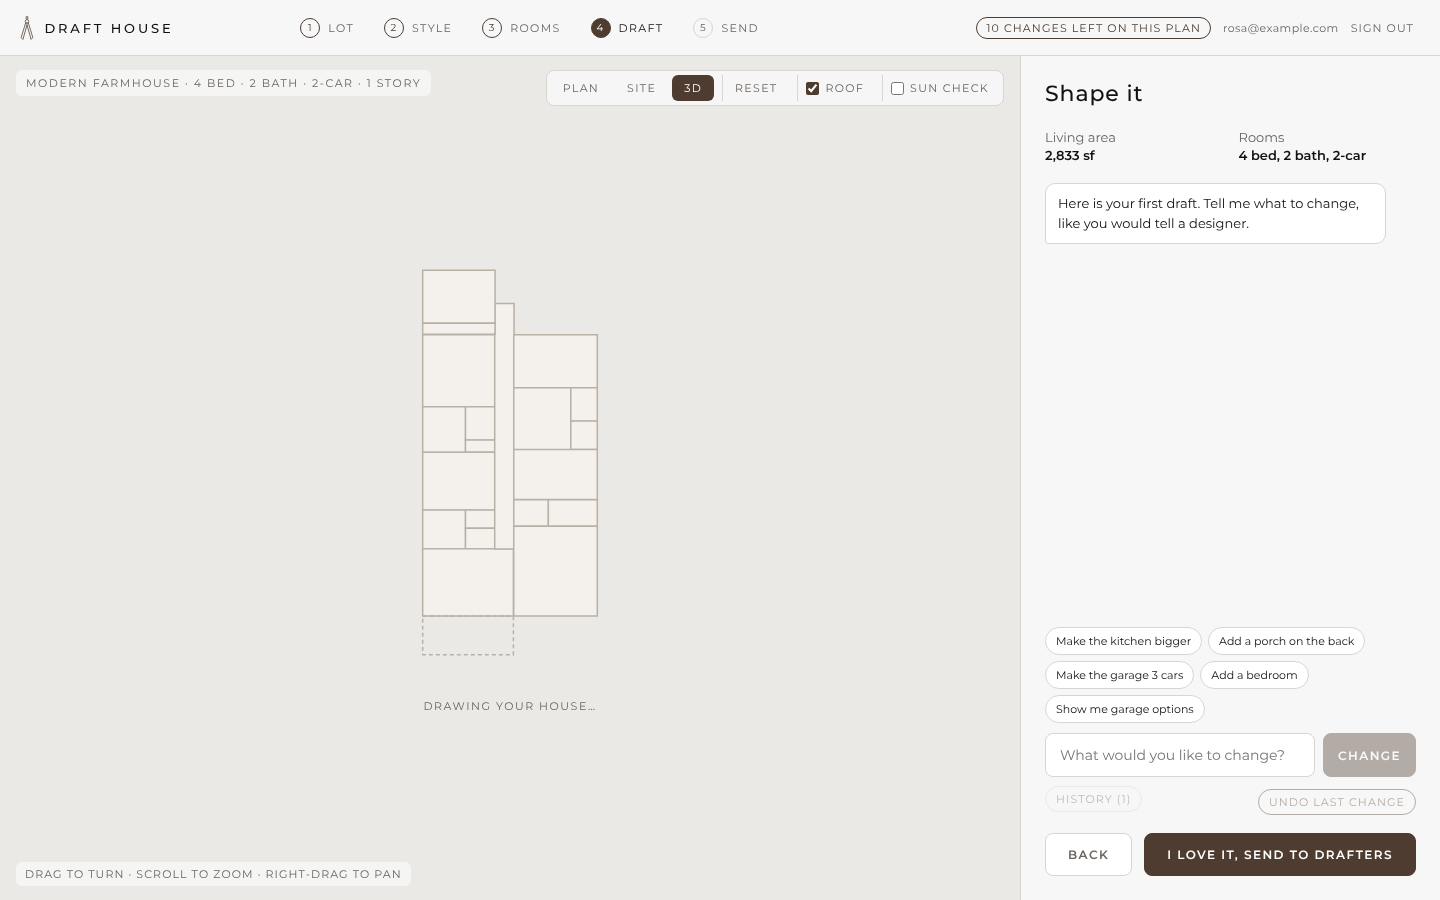
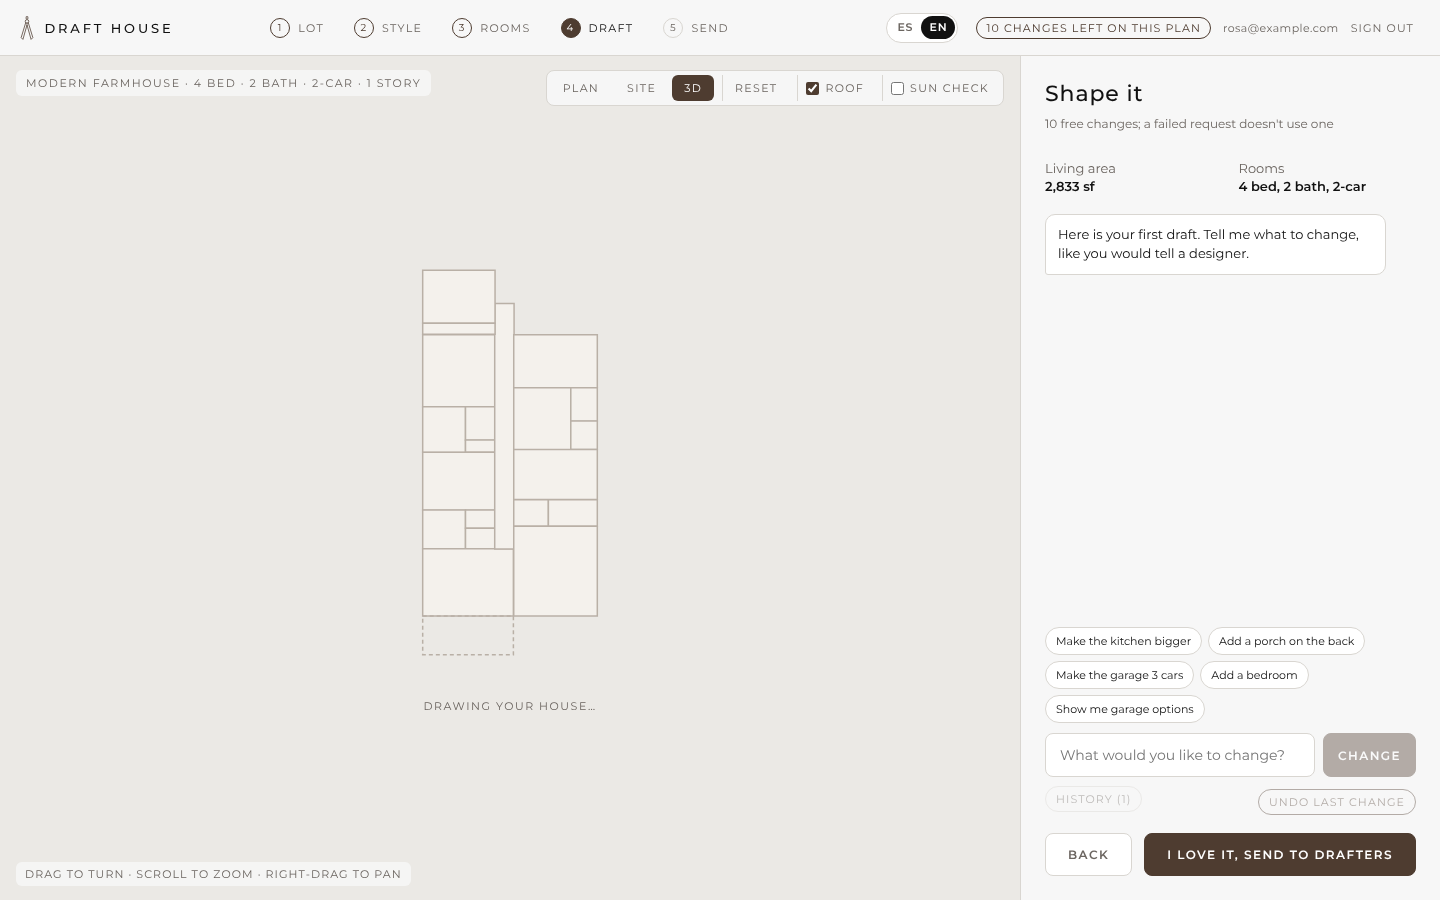
Round 13: Spanish chat sentences reach the screens; the walkthrough covers Spanish, Back and reload, the typo'd address
- i18n sentence() puts what the plan code writes into Spanish through
  lib/es.js; Spanish the office already sent stays as it is.
- Draft step: typed undo uses the shared test (English and Spanish) and does
  what the Undo button does; the office's button label is shown in the
  language of its answer. The no-account chat route takes the screen's
  language too.
- scripts/walkthrough.mjs: WALK_LANG=es walks in Spanish and flags English
  left on a screen; every session now types undo, a contradictory and a vague
  request, presses the browser's Back and Forward and reloads on the draft;
  a sixth lot is the address typed with a slip.
- docs/fix-round-13: one sheet per set of pictures instead of every frame.

Claude-Session: https://claude.ai/code/session_01R9nZixATaRF2JVPZiqt7bd

Changed region(s): [[0.7188, 0.1244, 0.9375, 0.3111], [0.375, 0.0, 0.4375, 0.0622], [0.625, 0.0, 0.6562, 0.0622]]

diff --git a/src/draft/screens/Draft.jsx b/src/draft/screens/Draft.jsx
@@ -8,6 +8,7 @@ import { interpretRequest } from '../lib/interpret.js'
 import { api } from '../lib/api.js'
 import { TRUST } from '../lib/trust.js'
 import { useLang, says, houseText, programLineEs, optionLabel, phrase } from '../lib/i18n.js'
+import { isUndoRequest } from '../lib/ops.js'
 
 // what the office says when a homeowner asks for a meeting or for more changes (round 8, M4/M8)
 const MEETING_THANKS = says(['Thanks! The office will reach out within 1 business day. You can also call {phone}.', { phone: TRUST.phone }])
@@ -141,7 +142,7 @@ export default function Draft({ style, program, rooms, setRooms, changesLeft, se
       return
     }
     // "undo", "go back": the last change comes off and comes back to the plan; no model, nothing used
-    if (!fix && (UNDO_RE.test(q) || UNDO_ES.test(q))) {
+    if (!fix && (isUndoRequest(q) || UNDO_RE.test(q) || UNDO_ES.test(q))) {
       setHistory((h) => [...h, { who: 'you', text: q }])
       if (!canUndo) {
         setHistory((h) => [...h, { who: 'house', ...says(['There is nothing to undo yet.']), applied: false, source: 'fallback' }])
@@ -180,7 +181,7 @@ export default function Draft({ style, program, rooms, setRooms, changesLeft, se
       const a2 = floorArea(res.rooms, program.stories)
       meta = { sf: a2 - before.area, used: 1 }
     }
-    setHistory((h) => [...h, { who: 'house', text: res.reply, i18n: res.i18n, source: res.source, applied: res.applied, fixes: res.applied ? null : res.fixes || null, meta, ops: res.applied ? res.ops : undefined, askOffice: res.askOffice || null }])
+    setHistory((h) => [...h, { who: 'house', text: res.reply, i18n: res.i18n, source: res.source, applied: res.applied, fixes: res.applied ? null : res.fixes || null, meta, ops: res.applied ? res.ops : undefined, askOffice: res.askOffice || null, askLabel: res.askLabel || null }])
     if (res.changesLeft !== undefined) setChangesLeft(res.changesLeft)
     if (res.applied) {
       if (!project) {
@@ -318,7 +319,8 @@ export default function Draft({ style, program, rooms, setRooms, changesLeft, se
               {m.askOffice && !m.asked && (
                 <span className="fixes ask-office">
                   <button onClick={() => askOffice(m.askOffice)} disabled={busy}>
-                    {t(ASK_LABEL[m.askOffice] || ASK_LABEL.meeting)}
+                    {/* the office writes the button in the language of the answer above it */}
+                    {m.askLabel || t(ASK_LABEL[m.askOffice] || ASK_LABEL.meeting)}
                   </button>
                 </span>
               )}

diff --git a/src/draft/lib/i18n.js b/src/draft/lib/i18n.js
@@ -12,6 +12,7 @@
 //  - `sentence(text, lang)` is for the sentences the plan code writes (chat replies, rule reasons, notes from the
 //    office API). ONE place below plugs in `toSpanish` from ./es.js when that file lands.
 import { createElement, Fragment, useEffect, useState, useSyncExternalStore } from 'react'
+import { toSpanish } from './es.js'
 import { plainReason } from './plain.js'
 import { es } from './i18n-es.js'
 
@@ -112,15 +113,15 @@ export function translateRich(lang, text, params = {}) {
 
 // ── sentences the plan code writes ───────────────────────────────────────────────────────────────────
 
-// ▼▼▼ PLUG `toSpanish` IN HERE (round 13) ▼▼▼
-// When src/draft/lib/es.js lands, add at the top of this file:
-//     import { toSpanish } from './es.js'
-// and replace the line below with:
-//     const planSentence = (text) => toSpanish(text)
-// Nothing else changes: every chat reply, rule reason and office note on a homeowner screen already comes through
-// `sentence(...)`, and always as the English a homeowner reads today (after plain.js took "setback" out).
-const planSentence = (text) => text
-// ▲▲▲ PLUG `toSpanish` IN HERE ▲▲▲
+// The sentences the plan code writes (chat replies, rule and fit reasons, button labels) are put into Spanish by
+// lib/es.js. A sentence it has no words for is left as written; Spanish that the office already sent stays as it is.
+const planSentence = (text) => {
+  try {
+    return toSpanish(text)
+  } catch {
+    return text
+  }
+}
 
 /**
  * A sentence written by the plan code, the rules or the office API, in the homeowner's language. English comes
